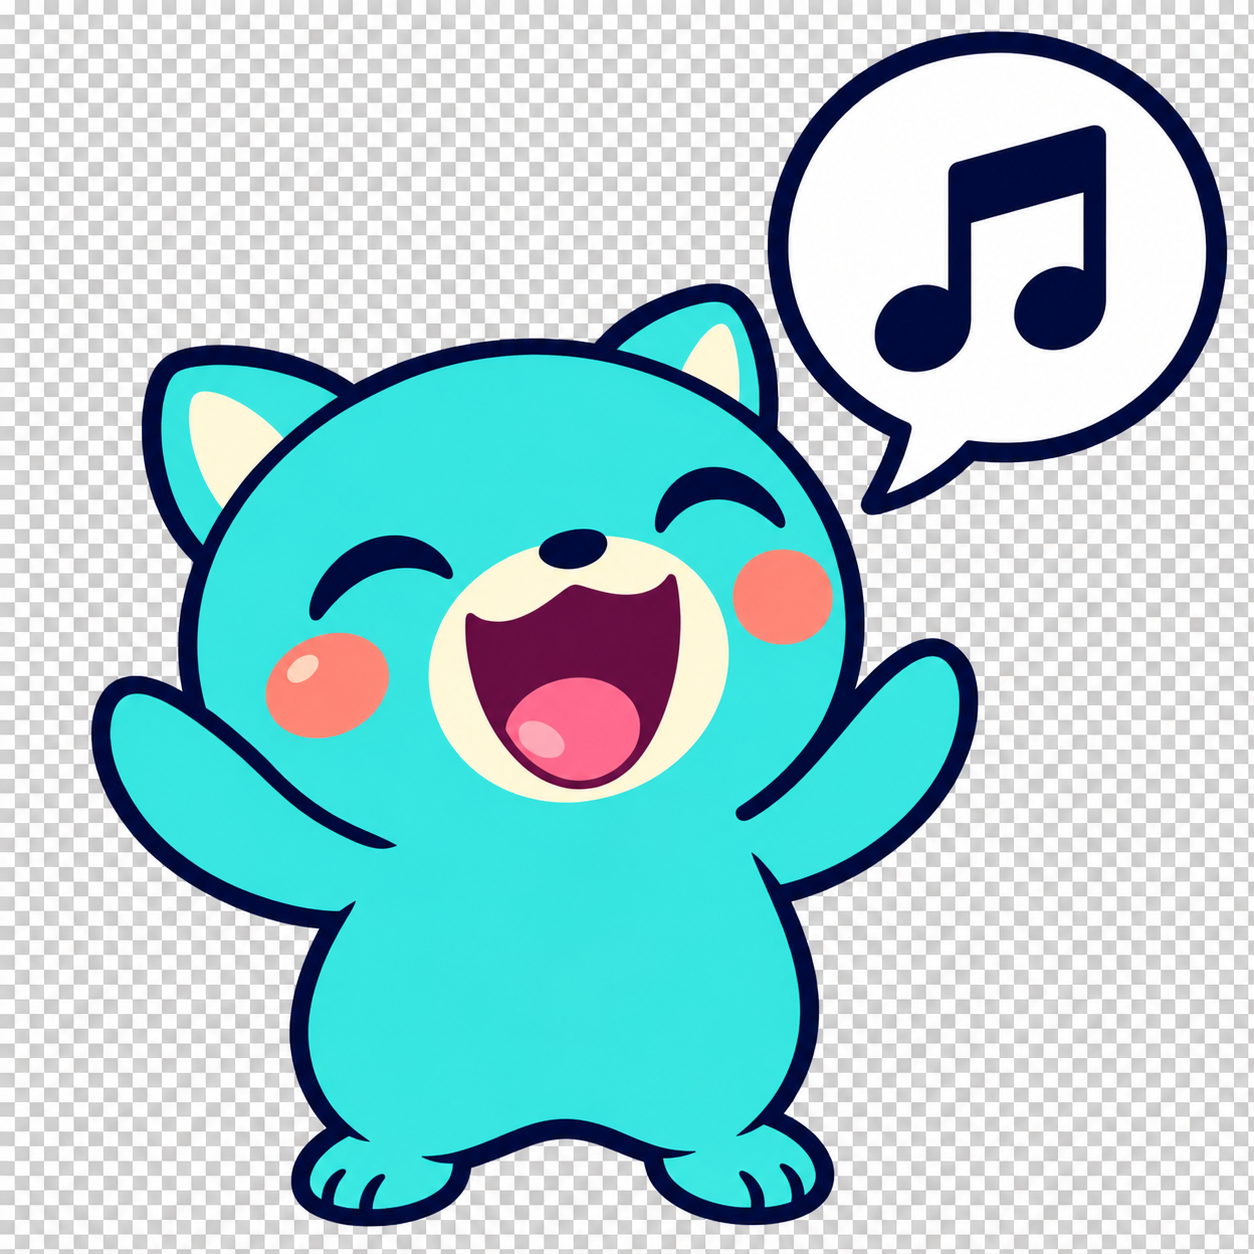
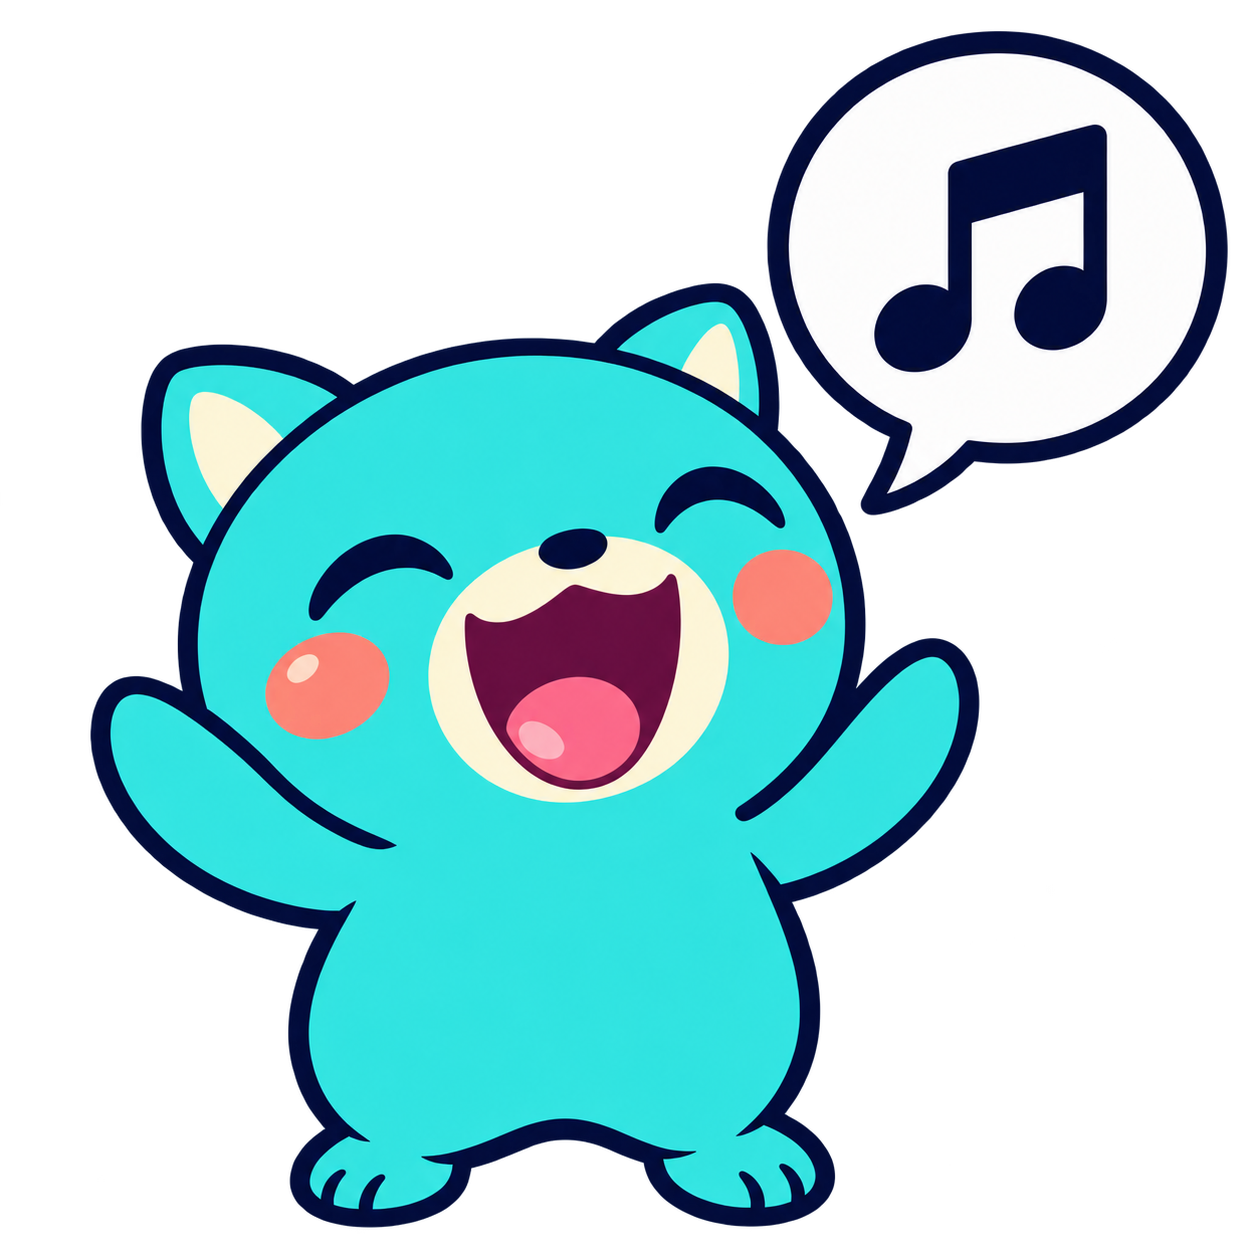
Fix README mascot background transparency

Changed region(s): [[0.0, 0.0, 1.0, 1.0], [0.4043, 0.5909, 0.4354, 0.622]]

diff --git a/assets/mascot-generation.md b/assets/mascot-generation.md
@@ -1,8 +1,10 @@
-# Mascot v2
+# README mascot
 
-Created using the built-in image generation tool from `mascot-original.png`. Existing assets are preserved. Saved as `mascot-v2.png`.
+The README uses `assets/mascot.png`. The built-in image generation tool removed the baked-in checkerboard on September 10, 2026. The output was visually inspected and its PNG alpha channel verified to contain fully transparent background pixels.
 
-The curl has been removed. The generated background is an opaque checkerboard, despite requests for transparency, including two further attempts. This version is a preview and has not replaced the README image or extension icons.
+## Background extraction prompt
+
+Use case: background-extraction. Edit target: supplied README mascot. Remove the baked-in gray and white checkerboard from the exterior background and replace it with actual transparent PNG alpha (zero alpha outside subject). Preserve the exact turquoise cat, pose, smooth head, face, cream muzzle, navy outlines, white speech bubble and music note, colors and composition. Keep white inside the speech bubble opaque. No checkerboard drawing, no solid background, no shadow. Output a genuinely transparent cutout.
 
 ## Prompt
 
